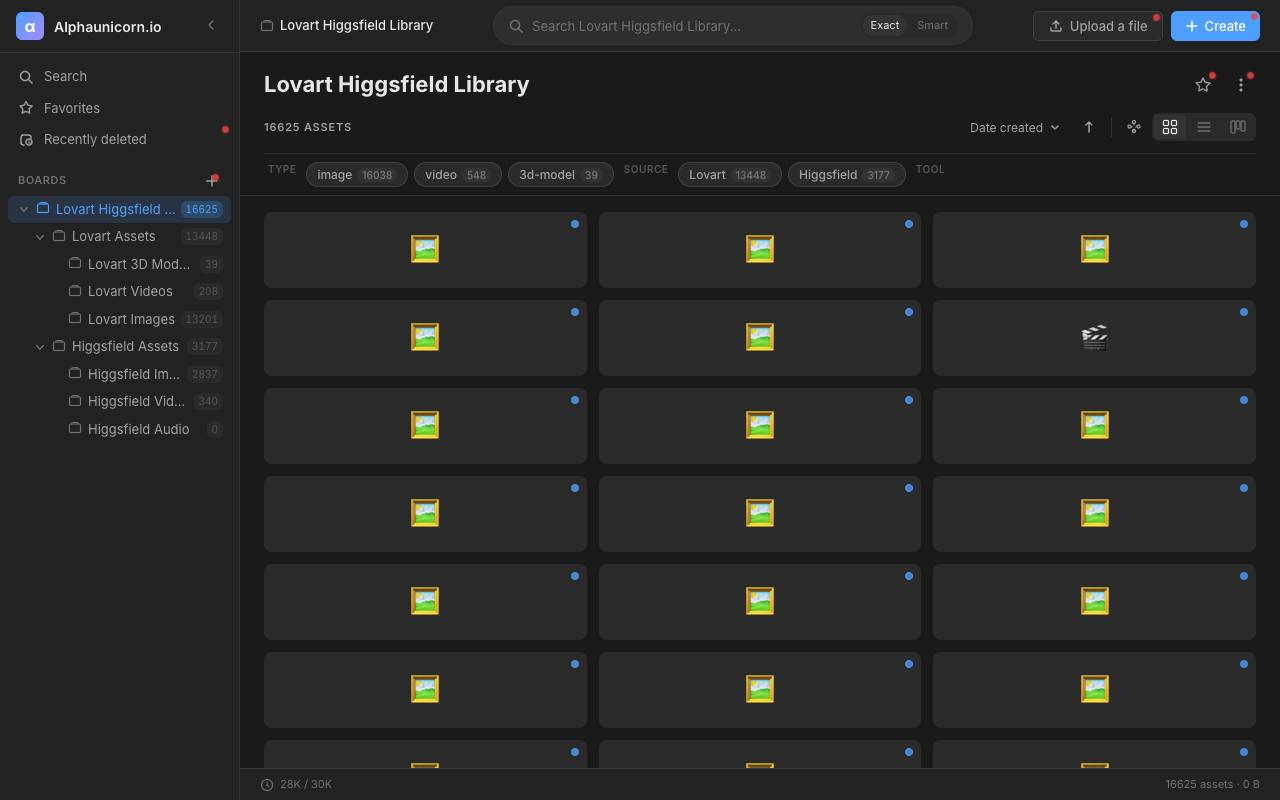
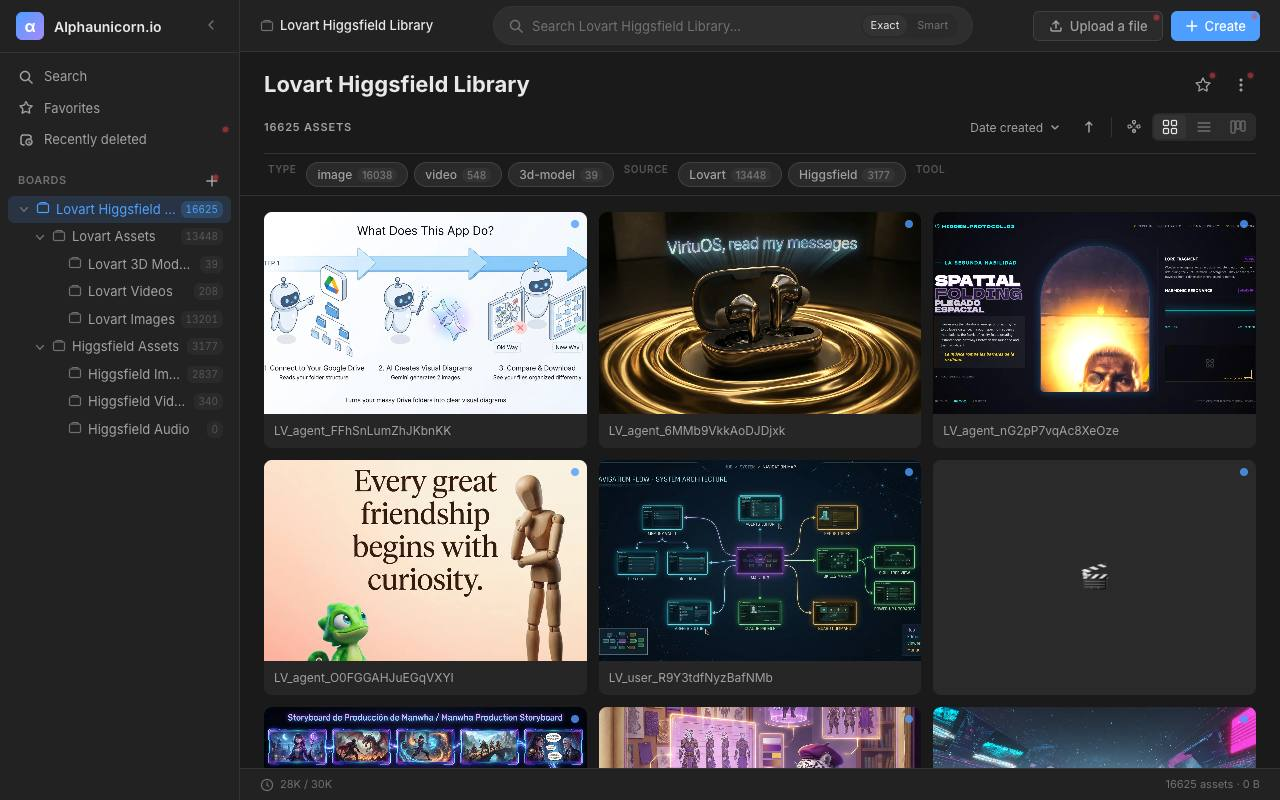
Resurrect LovArt Explorer with baked static snapshot; fix lovart CDN hotlinking
- Snapshot captured in-browser via Chrome extension (auth token never left the
  page): 174 projects, 211 threads, full chat histories with artifacts
- chatHistoryV2 needs agentThreadId (UUID) — numeric thread ids return an empty
  ack; data baked to public/data/ (projects + thread index eager, 211 per-thread
  chat files lazy, ~51MB slimmed to UI-consumed fields)
- src/api.js swapped to static fetch layer; BrowserRouter → HashRouter for
  subpath hosting; built and self-hosted at /p/lovart-explorer/
- Root cause of 'dead' lovart media everywhere: a.lovart.ai 403s on non-lovart
  Referer. <meta name=referrer content=no-referrer> fixes it — applied to the
  explorer and air-ui-study (its 16,625-asset grid now renders media)
- Fresh thumbnails for both

diff --git a/projects/lovart-explorer/index.html b/projects/lovart-explorer/index.html
@@ -1,0 +1,18 @@
+<!DOCTYPE html>
+<html lang="en">
+
+<head>
+  <meta charset="UTF-8" />
+    <meta name="referrer" content="no-referrer" />
+  <meta name="viewport" content="width=device-width, initial-scale=1.0" />
+  <title>Lovart Explorer</title>
+  <script type="module" crossorigin src="./assets/index-Crrge9Ey.js"></script>
+  <link rel="stylesheet" crossorigin href="./assets/index-BZ8riFuJ.css">
+</head>
+
+<body class="bg-gray-950 text-gray-100 min-h-screen">
+  <div id="root"></div>
+  <script type="module" src="https://ajax.googleapis.com/ajax/libs/model-viewer/4.0.0/model-viewer.min.js"></script>
+</body>
+
+</html>

diff --git a/projects/air-ui-study/index.html b/projects/air-ui-study/index.html
@@ -2,6 +2,7 @@
 <html lang="en">
 <head>
   <meta charset="UTF-8">
+    <meta name="referrer" content="no-referrer">
   <meta name="viewport" content="width=device-width, initial-scale=1.0">
   <title>Asset Library — Alphaunicorn.io</title>
   <meta name="description" content="Digital Asset Management browser for Lovart and Higgsfield media assets">

diff --git a/projects/lovart-explorer/assets/index-BZ8riFuJ.css b/projects/lovart-explorer/assets/index-BZ8riFuJ.css
@@ -1,0 +1,1 @@
+/*! tailwindcss v4.2.1 | MIT License | https://tailwindcss.com */@layer properties{@supports (((-webkit-hyphens:none)) and (not (margin-trim:inline))) or ((-moz-orient:inline) and (not (color:rgb(from red r g b)))){*,:before,:after,::backdrop{--tw-rotate-x:initial;--tw-rotate-y:initial;--tw-rotate-z:initial;--tw-skew-x:initial;--tw-skew-y:initial;--tw-space-y-reverse:0;--tw-border-style:solid;--tw-gradient-position:initial;--tw-gradient-from:#0000;--tw-gradient-via:#0000;--tw-gradient-to:#0000;--tw-gradient-stops:initial;--tw-gradient-via-stops:initial;--tw-gradient-from-position:0%;--tw-gradient-via-position:50%;--tw-gradient-to-position:100%;--tw-leading:initial;--tw-font-weight:initial;--tw-tracking:initial;--tw-shadow:0 0 #0000;--tw-shadow-color:initial;--tw-shadow-alpha:100%;--tw-inset-shadow:0 0 #0000;--tw-inset-shadow-color:initial;--tw-inset-shadow-alpha:100%;--tw-ring-color:initial;--tw-ring-shadow:0 0 #0000;--tw-inset-ring-color:initial;--tw-inset-ring-shadow:0 0 #0000;--tw-ring-inset:initial;--tw-ring-offset-width:0px;--tw-ring-offset-color:#fff;--tw-ring-offset-shadow:0 0 #0000;--tw-outline-style:solid;--tw-blur:initial;--tw-brightness:initial;--tw-contrast:initial;--tw-grayscale:initial;--tw-hue-rotate:initial;--tw-invert:initial;--tw-opacity:initial;--tw-saturate:initial;--tw-sepia:initial;--tw-drop-shadow:initial;--tw-drop-shadow-color:initial;--tw-drop-shadow-alpha:100%;--tw-drop-shadow-size:initial;--tw-backdrop-blur:initial;--tw-backdrop-brightness:initial;--tw-backdrop-contrast:initial;--tw-backdrop-grayscale:initial;--tw-backdrop-hue-rotate:initial;--tw-backdrop-invert:initial;--tw-backdrop-opacity:initial;--tw-backdrop-saturate:initial;--tw-backdrop-sepia:initial;--tw-duration:initial;--tw-ease:initial;--tw-scale-x:1;--tw-scale-y:1;--tw-scale-z:1;--tw-content:""}}}@layer theme{:root,:host{--font-sans:ui-sans-serif, system-ui, sans-serif, "Apple Color Emoji", "Segoe UI Emoji", "Segoe UI Symbol", "Noto Color Emoji";--font-mono:ui-monospace, SFMono-Regular, Menlo, Monaco, Consolas, "Liberation Mono", "Courier New", monospace;--color-red-200:oklch(88.5% .062 18.334);--color-red-400:oklch(70.4% .191 22.216);--color-red-500:oklch(63.7% .237 25.331);--color-red-800:oklch(44.4% .177 26.899);--color-red-900:oklch(39.6% .141 25.723);--color-yellow-400:oklch(85.2% .199 91.936);--color-yellow-800:oklch(47.6% .114 61.907);--color-yellow-900:oklch(42.1% .095 57.708);--color-green-300:oklch(87.1% .15 154.449);--color-green-400:oklch(79.2% .209 151.711);--color-green-800:oklch(44.8% .119 151.328);--color-green-900:oklch(39.3% .095 152.535);--color-blue-400:oklch(70.7% .165 254.624);--color-blue-500:oklch(62.3% .214 259.815);--color-blue-600:oklch(54.6% .245 262.881);--color-blue-700:oklch(48.8% .243 264.376);--color-blue-800:oklch(42.4% .199 265.638);--color-blue-900:oklch(37.9% .146 265.522);--color-purple-300:oklch(82.7% .119 306.383);--color-purple-400:oklch(71.4% .203 305.504);--color-purple-500:oklch(62.7% .265 303.9);--color-purple-700:oklch(49.6% .265 301.924);--color-purple-800:oklch(43.8% .218 303.724);--color-purple-900:oklch(38.1% .176 304.987);--color-gray-100:oklch(96.7% .003 264.542);--color-gray-200:oklch(92.8% .006 264.531);--color-gray-300:oklch(87.2% .01 258.338);--color-gray-400:oklch(70.7% .022 261.325);--color-gray-500:oklch(55.1% .027 264.364);--color-gray-600:oklch(44.6% .03 256.802);--color-gray-700:oklch(37.3% .034 259.733);--color-gray-800:oklch(27.8% .033 256.848);--color-gray-900:oklch(21% .034 264.665);--color-gray-950:oklch(13% .028 261.692);--color-black:#000;--color-white:#fff;--spacing:.25rem;--container-xs:20rem;--container-sm:24rem;--container-3xl:48rem;--container-4xl:56rem;--text-xs:.75rem;--text-xs--line-height:calc(1 / .75);--text-sm:.875rem;--text-sm--line-height:calc(1.25 / .875);--text-lg:1.125rem;--text-lg--line-height:calc(1.75 / 1.125);--text-xl:1.25rem;--text-xl--line-height:calc(1.75 / 1.25);--text-3xl:1.875rem;--text-3xl--line-height: 1.2 ;--font-weight-medium:500;--font-weight-semibold:600;--tracking-tight:-.025em;--radius-lg:.5rem;--drop-shadow-md:0 3px 3px #0000001f;--ease-in:cubic-bezier(.4, 0, 1, 1);--ease-out:cubic-bezier(0, 0, .2, 1);--ease-in-out:cubic-bezier(.4, 0, .2, 1);--animate-spin:spin 1s linear infinite;--blur-sm:8px;--blur-md:12px;--default-transition-duration:.15s;--default-transition-timing-function:cubic-bezier(.4, 0, .2, 1);--default-font-family:var(--font-sans);--default-mono-font-family:var(--font-mono)}}@layer base{*,:after,:before,::backdrop{box-sizing:border-box;border:0 solid;margin:0;padding:0}::file-selector-button{box-sizing:border-box;border:0 solid;margin:0;padding:0}html,:host{-webkit-text-size-adjust:100%;-moz-tab-size:4;tab-size:4;line-height:1.5;font-family:var(--default-font-family,ui-sans-serif, system-ui, sans-serif, "Apple Color Emoji", "Segoe UI Emoji", "Segoe UI Symbol", "Noto Color Emoji");font-feature-settings:var(--default-font-feature-settings,normal);font-variation-settings:var(--default-font-variation-settings,normal);-webkit-tap-highlight-color:transparent}hr{height:0;color:inherit;border-top-width:1px}abbr:where([title]){-webkit-text-decoration:underline dotted;text-decoration:underline dotted}h1,h2,h3,h4,h5,h6{font-size:inherit;font-weight:inherit}a{color:inherit;-webkit-text-decoration:inherit;text-decoration:inherit}b,strong{font-weight:bolder}code,kbd,samp,pre{font-family:var(--default-mono-font-family,ui-monospace, SFMono-Regular, Menlo, Monaco, Consolas, "Liberation Mono", "Courier New", monospace);font-feature-settings:var(--default-mono-font-feature-settings,normal);font-variation-settings:var(--default-mono-font-variation-settings,normal);font-size:1em}small{font-size:80%}sub,sup{vertical-align:baseline;font-size:75%;line-height:0;position:relative}sub{bottom:-.25em}sup{top:-.5em}table{text-indent:0;border-color:inherit;border-collapse:collapse}:-moz-focusring{outline:auto}progress{vertical-align:baseline}summary{display:list-item}ol,ul,menu{list-style:none}img,svg,video,canvas,audio,iframe,embed,object{vertical-align:middle;display:block}img,video{max-width:100%;height:auto}button,input,select,optgroup,textarea{font:inherit;font-feature-settings:inherit;font-variation-settings:inherit;letter-spacing:inherit;color:inherit;opacity:1;background-color:#0000;border-radius:0}::file-selector-button{font:inherit;font-feature-settings:inherit;font-variation-settings:inherit;letter-spacing:inherit;color:inherit;opacity:1;background-color:#0000;border-radius:0}:where(select:is([multiple],[size])) optgroup{font-weight:bolder}:where(select:is([multiple],[size])) optgroup option{padding-inline-start:20px}::file-selector-button{margin-inline-end:4px}::placeholder{opacity:1}@supports (not ((-webkit-appearance:-apple-pay-button))) or (contain-intrinsic-size:1px){::placeholder{color:currentColor}@supports (color:color-mix(in lab,red,red)){::placeholder{color:color-mix(in oklab,currentcolor 50%,transparent)}}}textarea{resize:vertical}::-webkit-search-decoration{-webkit-appearance:none}::-webkit-date-and-time-value{min-height:1lh;text-align:inherit}::-webkit-datetime-edit{display:inline-flex}::-webkit-datetime-edit-fields-wrapper{padding:0}::-webkit-datetime-edit{padding-block:0}::-webkit-datetime-edit-year-field{padding-block:0}::-webkit-datetime-edit-month-field{padding-block:0}::-webkit-datetime-edit-day-field{padding-block:0}::-webkit-datetime-edit-hour-field{padding-block:0}::-webkit-datetime-edit-minute-field{padding-block:0}::-webkit-datetime-edit-second-field{padding-block:0}::-webkit-datetime-edit-millisecond-field{padding-block:0}::-webkit-datetime-edit-meridiem-field{padding-block:0}::-webkit-calendar-picker-indicator{line-height:1}:-moz-ui-invalid{box-shadow:none}button,input:where([type=button],[type=reset],[type=submit]){-webkit-appearance:button;-moz-appearance:button;appearance:button}::file-selector-button{-webkit-appearance:button;-moz-appearance:button;appearance:button}::-webkit-inner-spin-button{height:auto}::-webkit-outer-spin-button{height:auto}[hidden]:where(:not([hidden=until-found])){display:none!important}}@layer components;@layer utilities{.pointer-events-none{pointer-events:none}.collapse{visibility:collapse}.collapse\!{visibility:collapse!important}.invisible{visibility:hidden}.visible{visibility:visible}.visible\!{visibility:visible!important}.absolute{position:absolute}.fixed{position:fixed}.relative{position:relative}.static{position:static}.sticky{position:sticky}.inset-0{inset:calc(var(--spacing) * 0)}.start{inset-inline-start:var(--spacing)}.start\!{inset-inline-start:var(--spacing)!important}.end{inset-inline-end:var(--spacing)}.top-0{top:calc(var(--spacing) * 0)}.top-2{top:calc(var(--spacing) * 2)}.top-4{top:calc(var(--spacing) * 4)}.right-0{right:calc(var(--spacing) * 0)}.right-1{right:calc(var(--spacing) * 1)}.right-2{right:calc(var(--spacing) * 2)}.right-4{right:calc(var(--spacing) * 4)}.bottom-0{bottom:calc(var(--spacing) * 0)}.bottom-1{bottom:calc(var(--spacing) * 1)}.left-0{left:calc(var(--spacing) * 0)}.left-\[15px\]{left:15px}.isolate{isolation:isolate}.z-10{z-index:10}.z-50{z-index:50}.container{width:100%}@media(min-width:40rem){.container{max-width:40rem}}@media(min-width:48rem){.container{max-width:48rem}}@media(min-width:64rem){.container{max-width:64rem}}@media(min-width:80rem){.container{max-width:80rem}}@media(min-width:96rem){.container{max-width:96rem}}.container\!{width:100%!important}@media(min-width:40rem){.container\!{max-width:40rem!important}}@media(min-width:48rem){.container\!{max-width:48rem!important}}@media(min-width:64rem){.container\!{max-width:64rem!important}}@media(min-width:80rem){.container\!{max-width:80rem!important}}@media(min-width:96rem){.container\!{max-width:96rem!important}}.mx-auto{margin-inline:auto}.mt-1{margin-top:calc(var(--spacing) * 1)}.mt-2{margin-top:calc(var(--spacing) * 2)}.mt-3{margin-top:calc(var(--spacing) * 3)}.mt-4{margin-top:calc(var(--spacing) * 4)}.mb-1{margin-bottom:calc(var(--spacing) * 1)}.mb-2{margin-bottom:calc(var(--spacing) * 2)}.mb-3{margin-bottom:calc(var(--spacing) * 3)}.mb-4{margin-bottom:calc(var(--spacing) * 4)}.mb-6{margin-bottom:calc(var(--spacing) * 6)}.ml-1\.5{margin-left:calc(var(--spacing) * 1.5)}.ml-4{margin-left:calc(var(--spacing) * 4)}.ml-auto{margin-left:auto}.line-clamp-2{-webkit-line-clamp:2;-webkit-box-orient:vertical;display:-webkit-box;overflow:hidden}.block{display:block}.contents{display:contents}.flex{display:flex}.grid{display:grid}.hidden{display:none}.inline{display:inline}.inline-block{display:inline-block}.table{display:table}.table\!{display:table!important}.aspect-square{aspect-ratio:1}.h-2\.5{height:calc(var(--spacing) * 2.5)}.h-5{height:calc(var(--spacing) * 5)}.h-6{height:calc(var(--spacing) * 6)}.h-8{height:calc(var(--spacing) * 8)}.h-12{height:calc(var(--spacing) * 12)}.h-20{height:calc(var(--spacing) * 20)}.h-32{height:calc(var(--spacing) * 32)}.h-\[calc\(100vh-49px\)\]{height:calc(100vh - 49px)}.h-auto{height:auto}.h-full{height:100%}.max-h-60{max-height:calc(var(--spacing) * 60)}.max-h-64{max-height:calc(var(--spacing) * 64)}.max-h-full{max-height:100%}.min-h-screen{min-height:100vh}.w-2\.5{width:calc(var(--spacing) * 2.5)}.w-5{width:calc(var(--spacing) * 5)}.w-6{width:calc(var(--spacing) * 6)}.w-8{width:calc(var(--spacing) * 8)}.w-12{width:calc(var(--spacing) * 12)}.w-20{width:calc(var(--spacing) * 20)}.w-64{width:calc(var(--spacing) * 64)}.w-fit{width:fit-content}.w-full{width:100%}.max-w-3xl{max-width:var(--container-3xl)}.max-w-4xl{max-width:var(--container-4xl)}.max-w-\[128px\]{max-width:128px}.max-w-full{max-width:100%}.max-w-sm{max-width:var(--container-sm)}.max-w-xs{max-width:var(--container-xs)}.min-w-0{min-width:calc(var(--spacing) * 0)}.flex-1{flex:1}.shrink{flex-shrink:1}.shrink-0{flex-shrink:0}.grow{flex-grow:1}.grow\!{flex-grow:1!important}.rotate-90{rotate:90deg}.transform{transform:var(--tw-rotate-x,) var(--tw-rotate-y,) var(--tw-rotate-z,) var(--tw-skew-x,) var(--tw-skew-y,)}.animate-spin{animation:var(--animate-spin)}.cursor-pointer{cursor:pointer}.resize{resize:both}.grid-cols-1{grid-template-columns:repeat(1,minmax(0,1fr))}.flex-col{flex-direction:column}.flex-wrap{flex-wrap:wrap}.items-center{align-items:center}.justify-between{justify-content:space-between}.justify-center{justify-content:center}.justify-end{justify-content:flex-end}.justify-start{justify-content:flex-start}.gap-0\.5{gap:calc(var(--spacing) * .5)}.gap-1{gap:calc(var(--spacing) * 1)}.gap-1\.5{gap:calc(var(--spacing) * 1.5)}.gap-2{gap:calc(var(--spacing) * 2)}.gap-3{gap:calc(var(--spacing) * 3)}.gap-4{gap:calc(var(--spacing) * 4)}:where(.space-y-2>:not(:last-child)){--tw-space-y-reverse:0;margin-block-start:calc(calc(var(--spacing) * 2) * var(--tw-space-y-reverse));margin-block-end:calc(calc(var(--spacing) * 2) * calc(1 - var(--tw-space-y-reverse)))}:where(.space-y-3>:not(:last-child)){--tw-space-y-reverse:0;margin-block-start:calc(calc(var(--spacing) * 3) * var(--tw-space-y-reverse));margin-block-end:calc(calc(var(--spacing) * 3) * calc(1 - var(--tw-space-y-reverse)))}:where(.space-y-8>:not(:last-child)){--tw-space-y-reverse:0;margin-block-start:calc(calc(var(--spacing) * 8) * var(--tw-space-y-reverse));margin-block-end:calc(calc(var(--spacing) * 8) * calc(1 - var(--tw-space-y-reverse)))}.truncate{text-overflow:ellipsis;white-space:nowrap;overflow:hidden}.overflow-hidden{overflow:hidden}.overflow-x-auto{overflow-x:auto}.overflow-y-auto{overflow-y:auto}.scroll-smooth{scroll-behavior:smooth}.rounded{border-radius:.25rem}.rounded-full{border-radius:3.40282e38px}.rounded-lg{border-radius:var(--radius-lg)}.border{border-style:var(--tw-border-style);border-width:1px}.border-2{border-style:var(--tw-border-style);border-width:2px}.border-4{border-style:var(--tw-border-style);border-width:4px}.border-t{border-top-style:var(--tw-border-style);border-top-width:1px}.border-b{border-bottom-style:var(--tw-border-style);border-bottom-width:1px}.border-blue-500{border-color:var(--color-blue-500)}.border-blue-500\/30{border-color:#3080ff4d}@supports (color:color-mix(in lab,red,red)){.border-blue-500\/30{border-color:color-mix(in oklab,var(--color-blue-500) 30%,transparent)}}.border-blue-800\/40{border-color:#193cb866}@supports (color:color-mix(in lab,red,red)){.border-blue-800\/40{border-color:color-mix(in oklab,var(--color-blue-800) 40%,transparent)}}.border-gray-700{border-color:var(--color-gray-700)}.border-gray-700\/50{border-color:#36415380}@supports (color:color-mix(in lab,red,red)){.border-gray-700\/50{border-color:color-mix(in oklab,var(--color-gray-700) 50%,transparent)}}.border-gray-800{border-color:var(--color-gray-800)}.border-gray-950{border-color:var(--color-gray-950)}.border-green-800\/40{border-color:#01663066}@supports (color:color-mix(in lab,red,red)){.border-green-800\/40{border-color:color-mix(in oklab,var(--color-green-800) 40%,transparent)}}.border-purple-700\/40{border-color:#8200da66}@supports (color:color-mix(in lab,red,red)){.border-purple-700\/40{border-color:color-mix(in oklab,var(--color-purple-700) 40%,transparent)}}.border-purple-800\/40{border-color:#6e11b066}@supports (color:color-mix(in lab,red,red)){.border-purple-800\/40{border-color:color-mix(in oklab,var(--color-purple-800) 40%,transparent)}}.border-red-800\/50{border-color:#9f071280}@supports (color:color-mix(in lab,red,red)){.border-red-800\/50{border-color:color-mix(in oklab,var(--color-red-800) 50%,transparent)}}.border-white\/10{border-color:#ffffff1a}@supports (color:color-mix(in lab,red,red)){.border-white\/10{border-color:color-mix(in oklab,var(--color-white) 10%,transparent)}}.border-yellow-800\/40{border-color:#874b0066}@supports (color:color-mix(in lab,red,red)){.border-yellow-800\/40{border-color:color-mix(in oklab,var(--color-yellow-800) 40%,transparent)}}.border-t-blue-500{border-top-color:var(--color-blue-500)}.bg-black{background-color:var(--color-black)}.bg-black\/50{background-color:#00000080}@supports (color:color-mix(in lab,red,red)){.bg-black\/50{background-color:color-mix(in oklab,var(--color-black) 50%,transparent)}}.bg-black\/60{background-color:#0009}@supports (color:color-mix(in lab,red,red)){.bg-black\/60{background-color:color-mix(in oklab,var(--color-black) 60%,transparent)}}.bg-black\/90{background-color:#000000e6}@supports (color:color-mix(in lab,red,red)){.bg-black\/90{background-color:color-mix(in oklab,var(--color-black) 90%,transparent)}}.bg-blue-500\/50{background-color:#3080ff80}@supports (color:color-mix(in lab,red,red)){.bg-blue-500\/50{background-color:color-mix(in oklab,var(--color-blue-500) 50%,transparent)}}.bg-blue-600{background-color:var(--color-blue-600)}.bg-blue-600\/20{background-color:#155dfc33}@supports (color:color-mix(in lab,red,red)){.bg-blue-600\/20{background-color:color-mix(in oklab,var(--color-blue-600) 20%,transparent)}}.bg-blue-700{background-color:var(--color-blue-700)}.bg-blue-900\/30{background-color:#1c398e4d}@supports (color:color-mix(in lab,red,red)){.bg-blue-900\/30{background-color:color-mix(in oklab,var(--color-blue-900) 30%,transparent)}}.bg-gray-700{background-color:var(--color-gray-700)}.bg-gray-800{background-color:var(--color-gray-800)}.bg-gray-800\/60{background-color:#1e293999}@supports (color:color-mix(in lab,red,red)){.bg-gray-800\/60{background-color:color-mix(in oklab,var(--color-gray-800) 60%,transparent)}}.bg-gray-900{background-color:var(--color-gray-900)}.bg-gray-950{background-color:var(--color-gray-950)}.bg-gray-950\/80{background-color:#030712cc}@supports (color:color-mix(in lab,red,red)){.bg-gray-950\/80{background-color:color-mix(in oklab,var(--color-gray-950) 80%,transparent)}}.bg-green-900\/30{background-color:#0d542b4d}@supports (color:color-mix(in lab,red,red)){.bg-green-900\/30{background-color:color-mix(in oklab,var(--color-green-900) 30%,transparent)}}.bg-purple-900\/30{background-color:#59168b4d}@supports (color:color-mix(in lab,red,red)){.bg-purple-900\/30{background-color:color-mix(in oklab,var(--color-purple-900) 30%,transparent)}}.bg-red-500\/20{background-color:#fb2c3633}@supports (color:color-mix(in lab,red,red)){.bg-red-500\/20{background-color:color-mix(in oklab,var(--color-red-500) 20%,transparent)}}.bg-red-900\/20{background-color:#82181a33}@supports (color:color-mix(in lab,red,red)){.bg-red-900\/20{background-color:color-mix(in oklab,var(--color-red-900) 20%,transparent)}}.bg-yellow-900\/30{background-color:#733e0a4d}@supports (color:color-mix(in lab,red,red)){.bg-yellow-900\/30{background-color:color-mix(in oklab,var(--color-yellow-900) 30%,transparent)}}.bg-gradient-to-t{--tw-gradient-position:to top in oklab;background-image:linear-gradient(var(--tw-gradient-stops))}.from-black\/80{--tw-gradient-from:#000c}@supports (color:color-mix(in lab,red,red)){.from-black\/80{--tw-gradient-from:color-mix(in oklab, var(--color-black) 80%, transparent)}}.from-black\/80{--tw-gradient-stops:var(--tw-gradient-via-stops,var(--tw-gradient-position), var(--tw-gradient-from) var(--tw-gradient-from-position), var(--tw-gradient-to) var(--tw-gradient-to-position))}.to-transparent{--tw-gradient-to:transparent;--tw-gradient-stops:var(--tw-gradient-via-stops,var(--tw-gradient-position), var(--tw-gradient-from) var(--tw-gradient-from-position), var(--tw-gradient-to) var(--tw-gradient-to-position))}.object-contain{object-fit:contain}.object-cover{object-fit:cover}.p-2{padding:calc(var(--spacing) * 2)}.p-3{padding:calc(var(--spacing) * 3)}.p-4{padding:calc(var(--spacing) * 4)}.p-6{padding:calc(var(--spacing) * 6)}.p-8{padding:calc(var(--spacing) * 8)}.px-1\.5{padding-inline:calc(var(--spacing) * 1.5)}.px-2{padding-inline:calc(var(--spacing) * 2)}.px-3{padding-inline:calc(var(--spacing) * 3)}.px-4{padding-inline:calc(var(--spacing) * 4)}.px-6{padding-inline:calc(var(--spacing) * 6)}.py-0\.5{padding-block:calc(var(--spacing) * .5)}.py-1{padding-block:calc(var(--spacing) * 1)}.py-1\.5{padding-block:calc(var(--spacing) * 1.5)}.py-3{padding-block:calc(var(--spacing) * 3)}.py-6{padding-block:calc(var(--spacing) * 6)}.py-20{padding-block:calc(var(--spacing) * 20)}.pt-2{padding-top:calc(var(--spacing) * 2)}.pl-\[40px\]{padding-left:40px}.text-center{text-align:center}.text-right{text-align:right}.font-mono{font-family:var(--font-mono)}.text-3xl{font-size:var(--text-3xl);line-height:var(--tw-leading,var(--text-3xl--line-height))}.text-lg{font-size:var(--text-lg);line-height:var(--tw-leading,var(--text-lg--line-height))}.text-sm{font-size:var(--text-sm);line-height:var(--tw-leading,var(--text-sm--line-height))}.text-xl{font-size:var(--text-xl);line-height:var(--tw-leading,var(--text-xl--line-height))}.text-xs{font-size:var(--text-xs);line-height:var(--tw-leading,var(--text-xs--line-height))}.text-\[10px\]{font-size:10px}.leading-none{--tw-leading:1;line-height:1}.font-medium{--tw-font-weight:var(--font-weight-medium);font-weight:var(--font-weight-medium)}.font-semibold{--tw-font-weight:var(--font-weight-semibold);font-weight:var(--font-weight-semibold)}.tracking-tight{--tw-tracking:var(--tracking-tight);letter-spacing:var(--tracking-tight)}.whitespace-pre-wrap{white-space:pre-wrap}.text-blue-400{color:var(--color-blue-400)}.text-gray-100{color:var(--color-gray-100)}.text-gray-300{color:var(--color-gray-300)}.text-gray-400{color:var(--color-gray-400)}.text-gray-500{color:var(--color-gray-500)}.text-gray-600{color:var(--color-gray-600)}.text-gray-700{color:var(--color-gray-700)}.text-green-300{color:var(--color-green-300)}.text-green-400{color:var(--color-green-400)}.text-purple-300{color:var(--color-purple-300)}.text-purple-400{color:var(--color-purple-400)}.text-purple-500{color:var(--color-purple-500)}.text-red-200{color:var(--color-red-200)}.text-red-400{color:var(--color-red-400)}.text-red-500\/80{color:#fb2c36cc}@supports (color:color-mix(in lab,red,red)){.text-red-500\/80{color:color-mix(in oklab,var(--color-red-500) 80%,transparent)}}.text-white{color:var(--color-white)}.text-white\/70{color:#ffffffb3}@supports (color:color-mix(in lab,red,red)){.text-white\/70{color:color-mix(in oklab,var(--color-white) 70%,transparent)}}.text-white\/90{color:#ffffffe6}@supports (color:color-mix(in lab,red,red)){.text-white\/90{color:color-mix(in oklab,var(--color-white) 90%,transparent)}}.text-yellow-400{color:var(--color-yellow-400)}.lowercase{text-transform:lowercase}.uppercase{text-transform:uppercase}.italic{font-style:italic}.underline{text-decoration-line:underline}.opacity-0{opacity:0}.opacity-20{opacity:.2}.shadow{--tw-shadow:0 1px 3px 0 var(--tw-shadow-color,#0000001a), 0 1px 2px -1px var(--tw-shadow-color,#0000001a);box-shadow:var(--tw-inset-shadow),var(--tw-inset-ring-shadow),var(--tw-ring-offset-shadow),var(--tw-ring-shadow),var(--tw-shadow)}.shadow\!{--tw-shadow:0 1px 3px 0 var(--tw-shadow-color,#0000001a), 0 1px 2px -1px var(--tw-shadow-color,#0000001a)!important;box-shadow:var(--tw-inset-shadow),var(--tw-inset-ring-shadow),var(--tw-ring-offset-shadow),var(--tw-ring-shadow),var(--tw-shadow)!important}.shadow-inner{--tw-shadow:inset 0 2px 4px 0 var(--tw-shadow-color,#0000000d);box-shadow:var(--tw-inset-shadow),var(--tw-inset-ring-shadow),var(--tw-ring-offset-shadow),var(--tw-ring-shadow),var(--tw-shadow)}.shadow-sm,.shadow\/creates,.shadow\/darkened,.shadow\/depth,.shadow\/negative{--tw-shadow:0 1px 3px 0 var(--tw-shadow-color,#0000001a), 0 1px 2px -1px var(--tw-shadow-color,#0000001a);box-shadow:var(--tw-inset-shadow),var(--tw-inset-ring-shadow),var(--tw-ring-offset-shadow),var(--tw-ring-shadow),var(--tw-shadow)}.ring{--tw-ring-shadow:var(--tw-ring-inset,) 0 0 0 calc(1px + var(--tw-ring-offset-width)) var(--tw-ring-color,currentcolor);box-shadow:var(--tw-inset-shadow),var(--tw-inset-ring-shadow),var(--tw-ring-offset-shadow),var(--tw-ring-shadow),var(--tw-shadow)}.outline{outline-style:var(--tw-outline-style);outline-width:1px}.blur{--tw-blur:blur(8px);filter:var(--tw-blur,) var(--tw-brightness,) var(--tw-contrast,) var(--tw-grayscale,) var(--tw-hue-rotate,) var(--tw-invert,) var(--tw-saturate,) var(--tw-sepia,) var(--tw-drop-shadow,)}.drop-shadow-md{--tw-drop-shadow-size:drop-shadow(0 3px 3px var(--tw-drop-shadow-color,#0000001f));--tw-drop-shadow:drop-shadow(var(--drop-shadow-md));filter:var(--tw-blur,) var(--tw-brightness,) var(--tw-contrast,) var(--tw-grayscale,) var(--tw-hue-rotate,) var(--tw-invert,) var(--tw-saturate,) var(--tw-sepia,) var(--tw-drop-shadow,)}.grayscale{--tw-grayscale:grayscale(100%);filter:var(--tw-blur,) var(--tw-brightness,) var(--tw-contrast,) var(--tw-grayscale,) var(--tw-hue-rotate,) var(--tw-invert,) var(--tw-saturate,) var(--tw-sepia,) var(--tw-drop-shadow,)}.invert{--tw-invert:invert(100%);filter:var(--tw-blur,) var(--tw-brightness,) var(--tw-contrast,) var(--tw-grayscale,) var(--tw-hue-rotate,) var(--tw-invert,) var(--tw-saturate,) var(--tw-sepia,) var(--tw-drop-shadow,)}.sepia{--tw-sepia:sepia(100%);filter:var(--tw-blur,) var(--tw-brightness,) var(--tw-contrast,) var(--tw-grayscale,) var(--tw-hue-rotate,) var(--tw-invert,) var(--tw-saturate,) var(--tw-sepia,) var(--tw-drop-shadow,)}.filter{filter:var(--tw-blur,) var(--tw-brightness,) var(--tw-contrast,) var(--tw-grayscale,) var(--tw-hue-rotate,) var(--tw-invert,) var(--tw-saturate,) var(--tw-sepia,) var(--tw-drop-shadow,)}.backdrop-blur{--tw-backdrop-blur:blur(8px);-webkit-backdrop-filter:var(--tw-backdrop-blur,) var(--tw-backdrop-brightness,) var(--tw-backdrop-contrast,) var(--tw-backdrop-grayscale,) var(--tw-backdrop-hue-rotate,) var(--tw-backdrop-invert,) var(--tw-backdrop-opacity,) var(--tw-backdrop-saturate,) var(--tw-backdrop-sepia,);backdrop-filter:var(--tw-backdrop-blur,) var(--tw-backdrop-brightness,) var(--tw-backdrop-contrast,) var(--tw-backdrop-grayscale,) var(--tw-backdrop-hue-rotate,) var(--tw-backdrop-invert,) var(--tw-backdrop-opacity,) var(--tw-backdrop-saturate,) var(--tw-backdrop-sepia,)}.backdrop-blur-md{--tw-backdrop-blur:blur(var(--blur-md));-webkit-backdrop-filter:var(--tw-backdrop-blur,) var(--tw-backdrop-brightness,) var(--tw-backdrop-contrast,) var(--tw-backdrop-grayscale,) var(--tw-backdrop-hue-rotate,) var(--tw-backdrop-invert,) var(--tw-backdrop-opacity,) var(--tw-backdrop-saturate,) var(--tw-backdrop-sepia,);backdrop-filter:var(--tw-backdrop-blur,) var(--tw-backdrop-brightness,) var(--tw-backdrop-contrast,) var(--tw-backdrop-grayscale,) var(--tw-backdrop-hue-rotate,) var(--tw-backdrop-invert,) var(--tw-backdrop-opacity,) var(--tw-backdrop-saturate,) var(--tw-backdrop-sepia,)}.backdrop-blur-sm{--tw-backdrop-blur:blur(var(--blur-sm));-webkit-backdrop-filter:var(--tw-backdrop-blur,) var(--tw-backdrop-brightness,) var(--tw-backdrop-contrast,) var(--tw-backdrop-grayscale,) var(--tw-backdrop-hue-rotate,) var(--tw-backdrop-invert,) var(--tw-backdrop-opacity,) var(--tw-backdrop-saturate,) var(--tw-backdrop-sepia,);backdrop-filter:var(--tw-backdrop-blur,) var(--tw-backdrop-brightness,) var(--tw-backdrop-contrast,) var(--tw-backdrop-grayscale,) var(--tw-backdrop-hue-rotate,) var(--tw-backdrop-invert,) var(--tw-backdrop-opacity,) var(--tw-backdrop-saturate,) var(--tw-backdrop-sepia,)}.backdrop-filter{-webkit-backdrop-filter:var(--tw-backdrop-blur,) var(--tw-backdrop-brightness,) var(--tw-backdrop-contrast,) var(--tw-backdrop-grayscale,) var(--tw-backdrop-hue-rotate,) var(--tw-backdrop-invert,) var(--tw-backdrop-opacity,) var(--tw-backdrop-saturate,) var(--tw-backdrop-sepia,);backdrop-filter:var(--tw-backdrop-blur,) var(--tw-backdrop-brightness,) var(--tw-backdrop-contrast,) var(--tw-backdrop-grayscale,) var(--tw-backdrop-hue-rotate,) var(--tw-backdrop-invert,) var(--tw-backdrop-opacity,) var(--tw-backdrop-saturate,) var(--tw-backdrop-sepia,)}.transition{transition-property:color,background-color,border-color,outline-color,text-decoration-color,fill,stroke,--tw-gradient-from,--tw-gradient-via,--tw-gradient-to,opacity,box-shadow,transform,translate,scale,rotate,filter,-webkit-backdrop-filter,backdrop-filter,display,content-visibility,overlay,pointer-events;transition-timing-function:var(--tw-ease,var(--default-transition-timing-function));transition-duration:var(--tw-duration,var(--default-transition-duration))}.transition-all{transition-property:all;transition-timing-function:var(--tw-ease,var(--default-transition-timing-function));transition-duration:var(--tw-duration,var(--default-transition-duration))}.transition-colors{transition-property:color,background-color,border-color,outline-color,text-decoration-color,fill,stroke,--tw-gradient-from,--tw-gradient-via,--tw-gradient-to;transition-timing-function:var(--tw-ease,var(--default-transition-timing-function));transition-duration:var(--tw-duration,var(--default-transition-duration))}.transition-opacity{transition-property:opacity;transition-timing-function:var(--tw-ease,var(--default-transition-timing-function));transition-duration:var(--tw-duration,var(--default-transition-duration))}.transition-transform{transition-property:transform,translate,scale,rotate;transition-timing-function:var(--tw-ease,var(--default-transition-timing-function));transition-duration:var(--tw-duration,var(--default-transition-duration))}.duration-200{--tw-duration:.2s;transition-duration:.2s}.duration-300{--tw-duration:.3s;transition-duration:.3s}.ease-in{--tw-ease:var(--ease-in);transition-timing-function:var(--ease-in)}.ease-in-out{--tw-ease:var(--ease-in-out);transition-timing-function:var(--ease-in-out)}.ease-out{--tw-ease:var(--ease-out);transition-timing-function:var(--ease-out)}.\[image\:1\]{image:1}.\[image\:2\]{image:2}.\[image\:3\]{image:3}.\[image\:4\]{image:4}.\[image\:5\]{image:5}.\[image\:6\]{image:6}.\[image\:7\]{image:7}.\[image\:8\]{image:8}.\[image\:9\]{image:9}.\[image\:10\]{image:10}.\[image\:11\]{image:11}.\[image\:12\]{image:12}.\[image\:13\]{image:13}.\[image\:14\]{image:14}.\[image\:15\]{image:15}.\[image\:16\]{image:16}.\[image\:17\]{image:17}.\[image\:18\]{image:18}.\[image\:19\]{image:19}.\[image\:20\]{image:20}.\[image\:21\]{image:21}.\[image\:22\]{image:22}.\[image\:23\]{image:23}.\[image\:24\]{image:24}.\[image\:25\]{image:25}.\[image\:26\]{image:26}.\[image\:27\]{image:27}.\[image\:28\]{image:28}.\[image\:29\]{image:29}.\[image\:30\]{image:30}.\[image\:31\]{image:31}.\[image\:32\]{image:32}.\[image\:33\]{image:33}.\[image\:34\]{image:34}.\[image\:35\]{image:35}.\[image\:36\]{image:36}.\[image\:37\]{image:37}.\[image\:38\]{image:38}.\[image\:39\]{image:39}.\[image\:40\]{image:40}.\[image\:41\]{image:41}.\[image\:42\]{image:42}.\[image\:43\]{image:43}.\[image\:44\]{image:44}.\[image\:45\]{image:45}.\[image\:46\]{image:46}.\[image\:47\]{image:47}.\[image\:48\]{image:48}.\[image\:49\]{image:49}.\[image\:50\]{image:50}.\[image\:51\]{image:51}.\[image\:52\]{image:52}.\[image\:53\]{image:53}.\[image\:54\]{image:54}.\[image\:55\]{image:55}.\[image\:56\]{image:56}.\[image\:57\]{image:57}.\[image\:58\]{image:58}.\[image\:59\]{image:59}.\[image\:60\]{image:60}.\[image\:61\]{image:61}.\[image\:62\]{image:62}.\[image\:63\]{image:63}.\[image\:64\]{image:64}.\[image\:65\]{image:65}.\[image\:66\]{image:66}.\[image\:67\]{image:67}.\[image\:68\]{image:68}.\[image\:69\]{image:69}.\[image\:70\]{image:70}.\[image\:71\]{image:71}.\[image\:72\]{image:72}.\[image\:73\]{image:73}.\[image\:74\]{image:74}.\[image\:75\]{image:75}.\[image\:76\]{image:76}.\[image\:77\]{image:77}.\[image\:78\]{image:78}.\[image\:79\]{image:79}.\[image\:80\]{image:80}.\[image\:81\]{image:81}.\[image\:82\]{image:82}.\[image\:83\]{image:83}.\[image\:84\]{image:84}.\[image\:85\]{image:85}.\[image\:86\]{image:86}.\[image\:87\]{image:87}.\[image\:88\]{image:88}.\[image\:89\]{image:89}.\[image\:90\]{image:90}.\[image\:91\]{image:91}.\[image\:92\]{image:92}.\[image\:93\]{image:93}.\[image\:94\]{image:94}.\[image\:95\]{image:95}.\[image\:96\]{image:96}.\[image\:97\]{image:97}.\[image\:98\]{image:98}.\[image\:99\]{image:99}.\[image\:100\]{image:100}.\[image\:101\]{image:101}.\[image\:102\]{image:102}.\[image\:103\]{image:103}.\[image\:104\]{image:104}.\[image\:105\]{image:105}.\[image\:106\]{image:106}.\[image\:107\]{image:107}.\[image\:108\]{image:108}.\[image\:109\]{image:109}.\[image\:110\]{image:110}.\[image\:111\]{image:111}.\[image\:112\]{image:112}.\[image\:113\]{image:113}.\[image\:114\]{image:114}.\[image\:115\]{image:115}.\[image\:116\]{image:116}.\[image\:117\]{image:117}.\[image\:118\]{image:118}.\[image\:119\]{image:119}.\[image\:120\]{image:120}.\[image\:121\]{image:121}.\[image\:122\]{image:122}.\[image\:123\]{image:123}.\[image\:124\]{image:124}.\[image\:125\]{image:125}.\[image\:126\]{image:126}.\[image\:127\]{image:127}.\[image\:128\]{image:128}.\[image\:129\]{image:129}.\[image\:130\]{image:130}.\[image\:131\]{image:131}.\[image\:132\]{image:132}.\[image\:133\]{image:133}.\[image\:134\]{image:134}.\[image\:135\]{image:135}.\[image\:136\]{image:136}.\[image\:137\]{image:137}.\[image\:138\]{image:138}.\[image\:139\]{image:139}.\[image\:140\]{image:140}.\[image\:141\]{image:141}.\[image\:142\]{image:142}.\[image\:143\]{image:143}.\[image\:144\]{image:144}.\[image\:145\]{image:145}.\[image\:146\]{image:146}.\[image\:147\]{image:147}.\[image\:148\]{image:148}.\[image\:149\]{image:149}.\[image\:150\]{image:150}.\[image\:151\]{image:151}.\[image\:152\]{image:152}.\[image\:153\]{image:153}.\[image\:154\]{image:154}.\[image\:155\]{image:155}.\[image\:156\]{image:156}.\[image\:157\]{image:157}.\[image\:158\]{image:158}.\[image\:159\]{image:159}.\[image\:160\]{image:160}.\[image\:161\]{image:161}.\[image\:162\]{image:162}.\[text\:1\]{text:1}.\[text\:2\]{text:2}@media(hover:hover){.group-hover\:scale-105:is(:where(.group):hover *){--tw-scale-x:105%;--tw-scale-y:105%;--tw-scale-z:105%;scale:var(--tw-scale-x) var(--tw-scale-y)}.group-hover\:opacity-100:is(:where(.group):hover *){opacity:1}}.before\:absolute:before{content:var(--tw-content);position:absolute}.before\:inset-y-0:before{content:var(--tw-content);inset-block:calc(var(--spacing) * 0)}.before\:left-\[19px\]:before{content:var(--tw-content);left:19px}.before\:w-0\.5:before{content:var(--tw-content);width:calc(var(--spacing) * .5)}.before\:bg-gray-800:before{content:var(--tw-content);background-color:var(--color-gray-800)}@media(hover:hover){.hover\:border-gray-600:hover{border-color:var(--color-gray-600)}.hover\:bg-gray-700:hover{background-color:var(--color-gray-700)}.hover\:bg-purple-900\/50:hover{background-color:#59168b80}@supports (color:color-mix(in lab,red,red)){.hover\:bg-purple-900\/50:hover{background-color:color-mix(in oklab,var(--color-purple-900) 50%,transparent)}}.hover\:bg-red-900\/40:hover{background-color:#82181a66}@supports (color:color-mix(in lab,red,red)){.hover\:bg-red-900\/40:hover{background-color:color-mix(in oklab,var(--color-red-900) 40%,transparent)}}.hover\:text-gray-200:hover{color:var(--color-gray-200)}.hover\:text-white:hover{color:var(--color-white)}.hover\:opacity-80:hover{opacity:.8}}.disabled\:cursor-not-allowed:disabled{cursor:not-allowed}.disabled\:opacity-40:disabled{opacity:.4}@media(min-width:40rem){.sm\:inline{display:inline}.sm\:grid-cols-2{grid-template-columns:repeat(2,minmax(0,1fr))}}@media(min-width:48rem){.md\:grid-cols-3{grid-template-columns:repeat(3,minmax(0,1fr))}}@media(min-width:64rem){.lg\:grid-cols-4{grid-template-columns:repeat(4,minmax(0,1fr))}}@media(min-width:80rem){.xl\:grid-cols-5{grid-template-columns:repeat(5,minmax(0,1fr))}}}@property --tw-rotate-x{syntax:"*";inherits:false}@property --tw-rotate-y{syntax:"*";inherits:false}@property --tw-rotate-z{syntax:"*";inherits:false}@property --tw-skew-x{syntax:"*";inherits:false}@property --tw-skew-y{syntax:"*";inherits:false}@property --tw-space-y-reverse{syntax:"*";inherits:false;initial-value:0}@property --tw-border-style{syntax:"*";inherits:false;initial-value:solid}@property --tw-gradient-position{syntax:"*";inherits:false}@property --tw-gradient-from{syntax:"<color>";inherits:false;initial-value:#0000}@property --tw-gradient-via{syntax:"<color>";inherits:false;initial-value:#0000}@property --tw-gradient-to{syntax:"<color>";inherits:false;initial-value:#0000}@property --tw-gradient-stops{syntax:"*";inherits:false}@property --tw-gradient-via-stops{syntax:"*";inherits:false}@property --tw-gradient-from-position{syntax:"<length-percentage>";inherits:false;initial-value:0%}@property --tw-gradient-via-position{syntax:"<length-percentage>";inherits:false;initial-value:50%}@property --tw-gradient-to-position{syntax:"<length-percentage>";inherits:false;initial-value:100%}@property --tw-leading{syntax:"*";inherits:false}@property --tw-font-weight{syntax:"*";inherits:false}@property --tw-tracking{syntax:"*";inherits:false}@property --tw-shadow{syntax:"*";inherits:false;initial-value:0 0 #0000}@property --tw-shadow-color{syntax:"*";inherits:false}@property --tw-shadow-alpha{syntax:"<percentage>";inherits:false;initial-value:100%}@property --tw-inset-shadow{syntax:"*";inherits:false;initial-value:0 0 #0000}@property --tw-inset-shadow-color{syntax:"*";inherits:false}@property --tw-inset-shadow-alpha{syntax:"<percentage>";inherits:false;initial-value:100%}@property --tw-ring-color{syntax:"*";inherits:false}@property --tw-ring-shadow{syntax:"*";inherits:false;initial-value:0 0 #0000}@property --tw-inset-ring-color{syntax:"*";inherits:false}@property --tw-inset-ring-shadow{syntax:"*";inherits:false;initial-value:0 0 #0000}@property --tw-ring-inset{syntax:"*";inherits:false}@property --tw-ring-offset-width{syntax:"<length>";inherits:false;initial-value:0}@property --tw-ring-offset-color{syntax:"*";inherits:false;initial-value:#fff}@property --tw-ring-offset-shadow{syntax:"*";inherits:false;initial-value:0 0 #0000}@property --tw-outline-style{syntax:"*";inherits:false;initial-value:solid}@property --tw-blur{syntax:"*";inherits:false}@property --tw-brightness{syntax:"*";inherits:false}@property --tw-contrast{syntax:"*";inherits:false}@property --tw-grayscale{syntax:"*";inherits:false}@property --tw-hue-rotate{syntax:"*";inherits:false}@property --tw-invert{syntax:"*";inherits:false}@property --tw-opacity{syntax:"*";inherits:false}@property --tw-saturate{syntax:"*";inherits:false}@property --tw-sepia{syntax:"*";inherits:false}@property --tw-drop-shadow{syntax:"*";inherits:false}@property --tw-drop-shadow-color{syntax:"*";inherits:false}@property --tw-drop-shadow-alpha{syntax:"<percentage>";inherits:false;initial-value:100%}@property --tw-drop-shadow-size{syntax:"*";inherits:false}@property --tw-backdrop-blur{syntax:"*";inherits:false}@property --tw-backdrop-brightness{syntax:"*";inherits:false}@property --tw-backdrop-contrast{syntax:"*";inherits:false}@property --tw-backdrop-grayscale{syntax:"*";inherits:false}@property --tw-backdrop-hue-rotate{syntax:"*";inherits:false}@property --tw-backdrop-invert{syntax:"*";inherits:false}@property --tw-backdrop-opacity{syntax:"*";inherits:false}@property --tw-backdrop-saturate{syntax:"*";inherits:false}@property --tw-backdrop-sepia{syntax:"*";inherits:false}@property --tw-duration{syntax:"*";inherits:false}@property --tw-ease{syntax:"*";inherits:false}@property --tw-scale-x{syntax:"*";inherits:false;initial-value:1}@property --tw-scale-y{syntax:"*";inherits:false;initial-value:1}@property --tw-scale-z{syntax:"*";inherits:false;initial-value:1}@property --tw-content{syntax:"*";inherits:false;initial-value:""}@keyframes spin{to{transform:rotate(360deg)}}